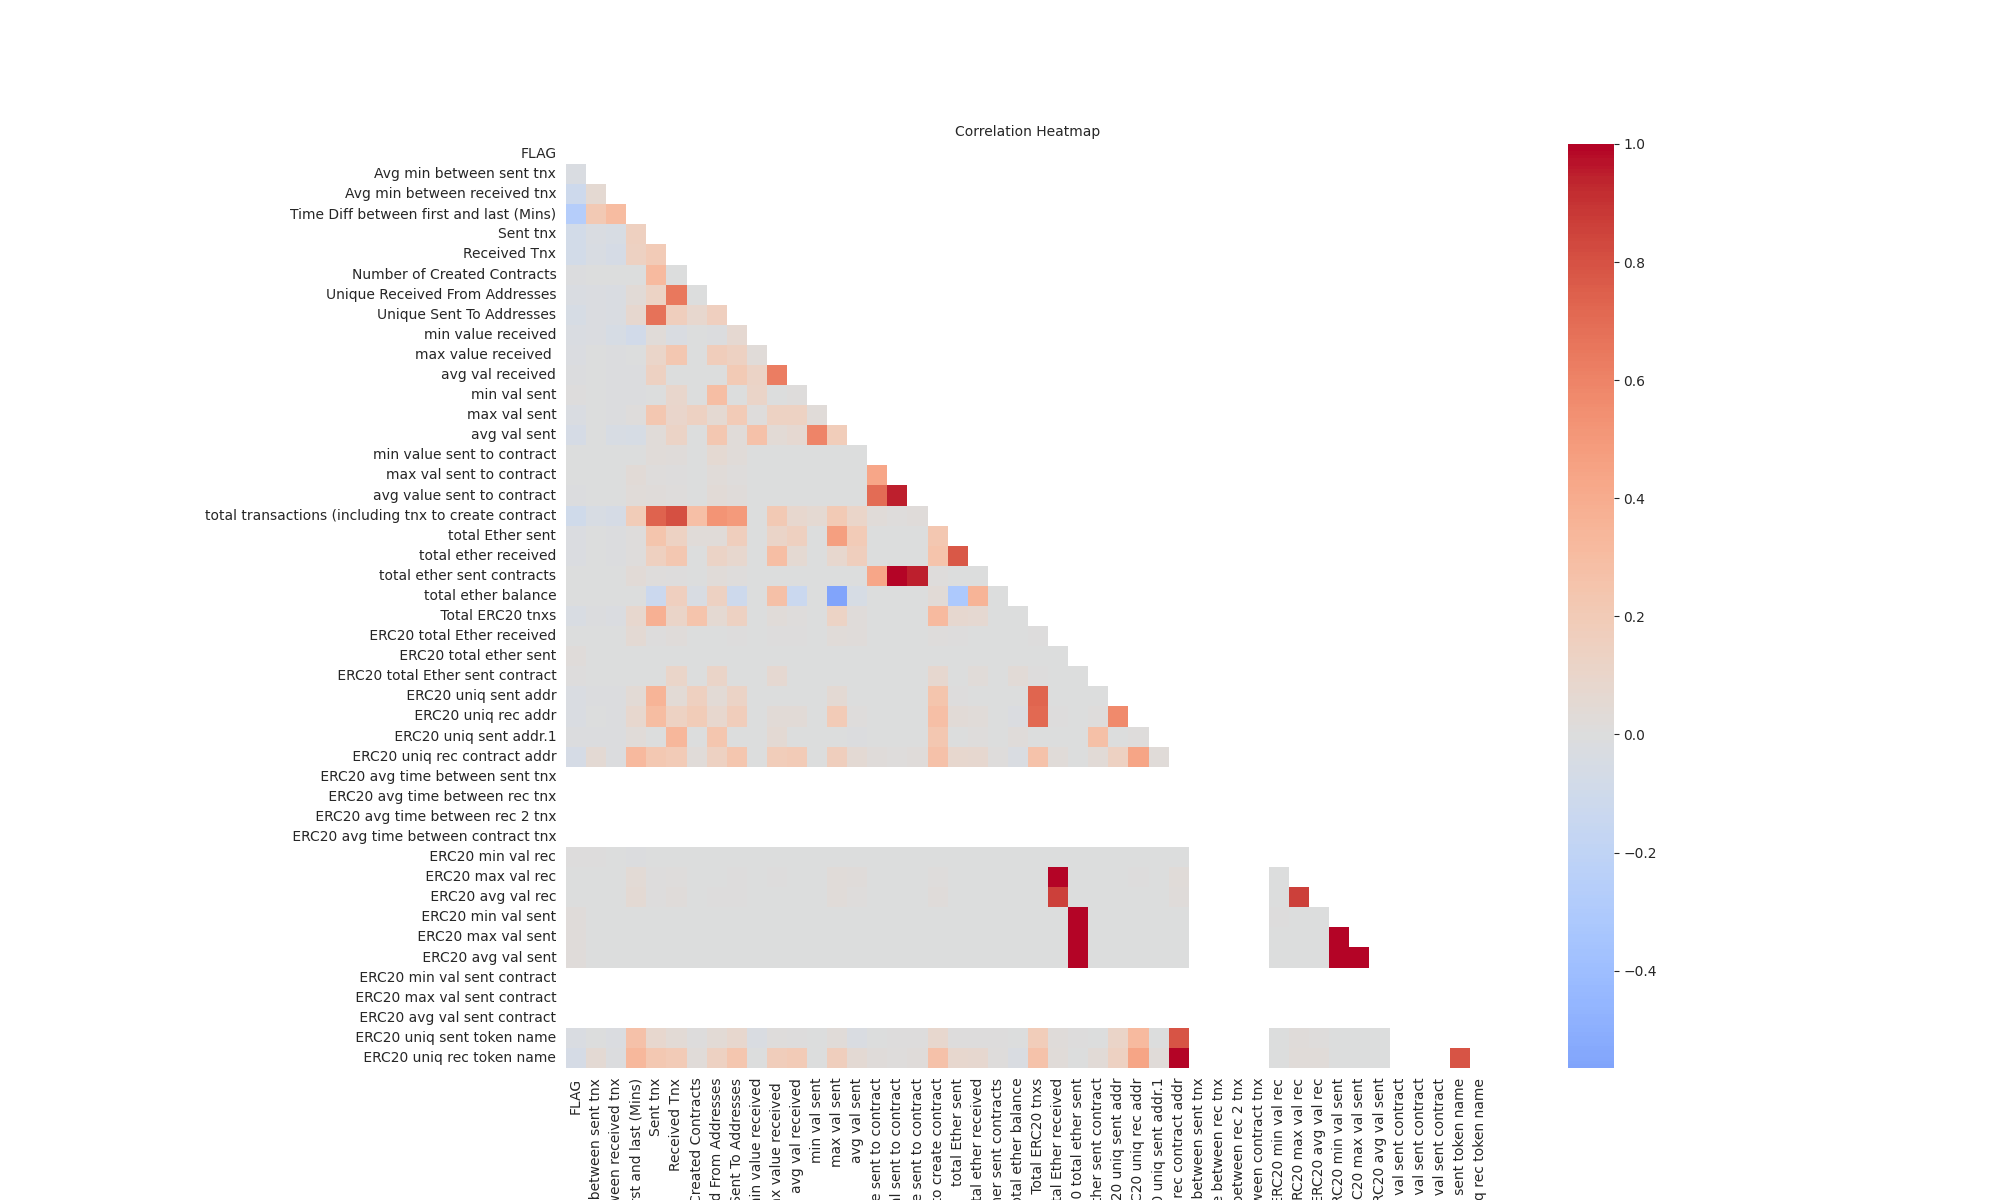
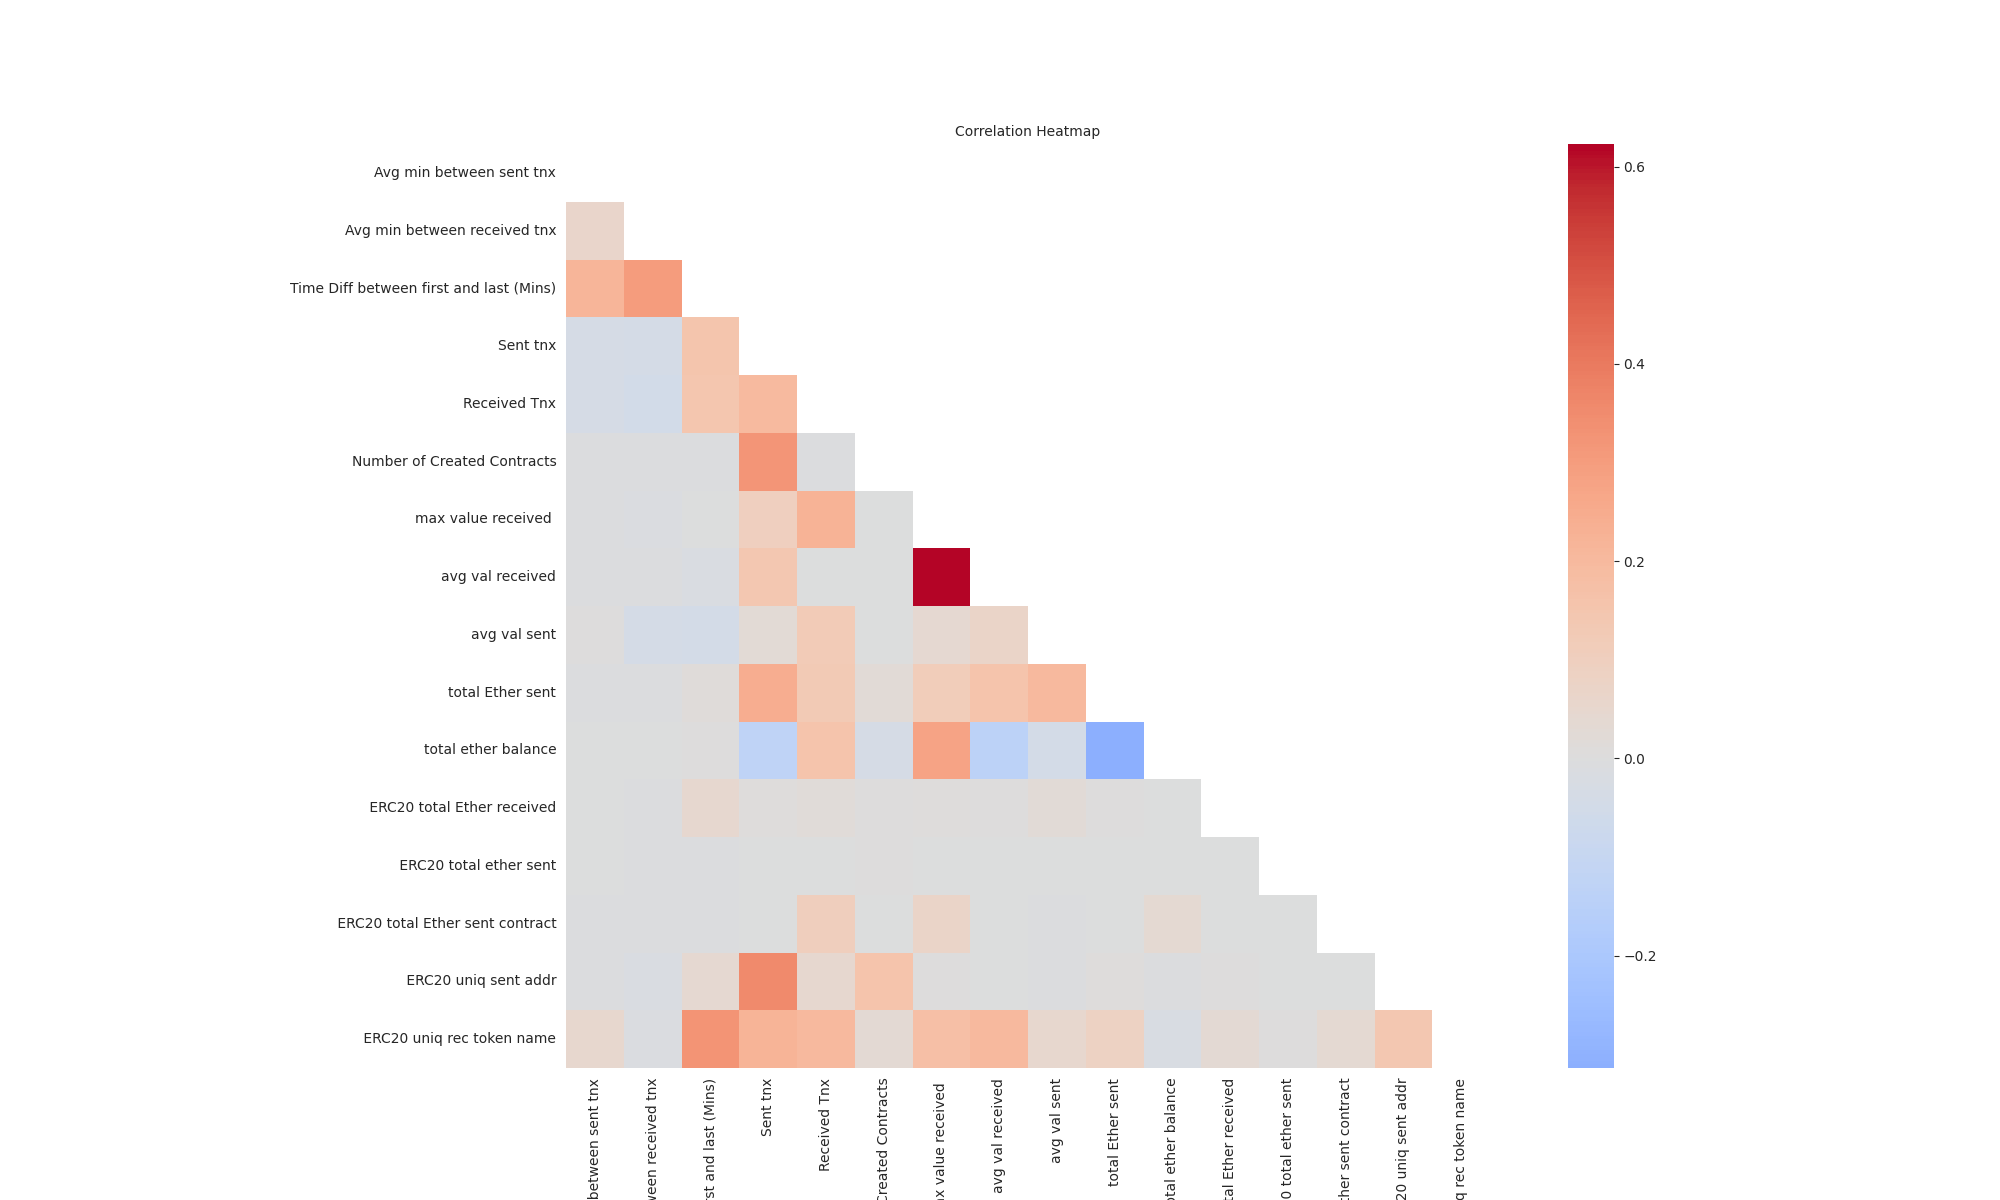
Finished training of models for fraud detection

Changed region(s): [[0.155, 0.1233, 0.744, 1.0]]

diff --git a/model/training.py b/model/training.py
@@ -1,0 +1,128 @@
+import numpy as np
+import pandas as pd
+from pyparsing import Dict
+import seaborn as sns
+import torch
+import xgboost as xgb
+from hummingbird.ml import convert
+from imblearn.over_sampling import SMOTE
+from sklearn.ensemble import RandomForestClassifier
+from sklearn.metrics import classification_report, confusion_matrix
+from sklearn.model_selection import train_test_split
+from sklearn.preprocessing import PowerTransformer
+from pathlib import Path
+import os
+
+DATA_PATH = Path(__file__).resolve().parent / 'data' / 'data.csv'
+
+def load_dataset(csv_path: Path):
+    df = pd.read_csv(csv_path)
+    print(f"Loaded dataset: {df.shape}")
+    # Drop auto-generated index columns if present
+    if 'Unnamed: 0' in df.columns:
+        df = df.drop(columns=['Unnamed: 0'])
+    return df
+
+
+def split_dataset(df: pd.DataFrame, test_size: float = 0.2, random_state: int =42):
+    y = df['FLAG']
+    X = df.drop(columns=['FLAG'])
+    X_train, X_test, y_train, y_test = train_test_split(
+        X, y, test_size=test_size, random_state=random_state
+    )
+    print(f"Train shapes: {X_train.shape}, {y_train.shape}")
+    print(f"Test shapes: {X_test.shape}, {y_test.shape}")
+    return X_train, X_test, y_train, y_test
+
+
+def scale_features(X_train: pd.DataFrame, X_test: pd.DataFrame):
+    norm = PowerTransformer()
+    norm_train = norm.fit_transform(X_train)
+    norm_test = norm.transform(X_test)
+    print("Applied PowerTransformer normalization")
+    return norm_train, norm_test, norm
+
+
+def balance_training_data(X_train: np.ndarray, y_train: pd.Series):
+    smote = SMOTE()
+    X_resampled, y_resampled = smote.fit_resample(X_train, y_train)
+    print(
+        f"SMOTE applied: before {X_train.shape}/{y_train.shape},",
+        f"after {X_resampled.shape}/{y_resampled.shape}"
+    )
+    return X_resampled, y_resampled
+
+
+def train_models(X_train: np.ndarray, y_train: np.ndarray):
+    models: Dict[str, object] = {}
+
+    rf_model = RandomForestClassifier(random_state=42)
+    rf_model.fit(X_train, y_train)
+    models['random_forest'] = rf_model
+    print("Trained RandomForestClassifier")
+
+    xgb_model = xgb.XGBClassifier(random_state=42)
+    xgb_model.fit(X_train, y_train)
+    models['xgboost'] = xgb_model
+    print("Trained XGBoost classifier")
+
+    return models
+
+
+def evaluate_model(name: str, model: object, X_test: np.ndarray, y_test: pd.Series):
+    preds = model.predict(X_test)
+    print(f"\n{name} classification report:\n{classification_report(y_test, preds)}")
+    print(f"{name} confusion matrix:\n{confusion_matrix(y_test, preds)}")
+
+
+def export_model_to_onnx(model: xgb.XGBClassifier, sample: np.ndarray, export_path: Path):
+    os.makedirs(export_path.parent, exist_ok=True)
+    hb_model = convert(model, 'torch', sample)
+    torch_model = hb_model.model
+    dummy_input = torch.tensor(sample, dtype=torch.float32)
+
+    torch.onnx.export(
+        torch_model,
+        dummy_input,
+        export_path.as_posix(),
+        export_params=True,
+        opset_version=10,
+        do_constant_folding=True,
+        input_names=['input'],
+        output_names=['output'],
+        dynamic_axes={'input': {0: 'batch_size'}, 'output': {0: 'batch_size'}},
+    )
+
+    print(f"✅ Model exported to {export_path}")
+    return export_path
+
+
+def main():
+    print(torch.__version__)
+
+    df = load_dataset(DATA_PATH)
+
+    X_train, X_test, y_train, y_test = split_dataset(df)
+    norm_train, norm_test, _ = scale_features(X_train, X_test)
+    X_resampled, y_resampled = balance_training_data(norm_train, y_train)
+
+    models = train_models(X_resampled, y_resampled)
+
+    evaluate_model('RandomForest', models['random_forest'], norm_test, y_test)
+    evaluate_model('XGBoost', models['xgboost'], norm_test, y_test)
+
+    export_model_to_onnx(
+        models['xgboost'],
+        norm_test[:1],
+        Path(__file__).resolve().parent / 'onnx' / 'xgboost_model.onnx'
+    )
+
+    export_model_to_onnx(
+        models['random_forest'],
+        norm_test[:1],
+        Path(__file__).resolve().parent / 'onnx' / 'random_forest_model.onnx'
+    )
+
+
+if __name__ == '__main__':
+    main()

diff --git a/model/preprocessing.py b/model/preprocessing.py
@@ -72,6 +72,9 @@ def save_cleaned_dataset(df: pd.DataFrame, output_path: Path):
 def main():
     df = load_dataset(Path(DATA_PATH))
     df = clean_dataset(df)
+        #print dataset info
+    print("Cleaned DataFrame Info:")
+    print(df.info())
     save_cleaned_dataset(df, Path(CLEAN_DATA_PATH))
 
 

diff --git a/model/EDA.py b/model/EDA.py
@@ -6,8 +6,8 @@ import seaborn as sns
 import numpy as np
 import os
 
-DATA_PATH = 'data/transaction_dataset.csv'
-# DATA_PATH = 'data/data.csv'
+#DATA_PATH = 'data/transaction_dataset.csv'
+DATA_PATH = 'data/data.csv'
 
 def print_info(df):
     print("DataFrame Info:")
